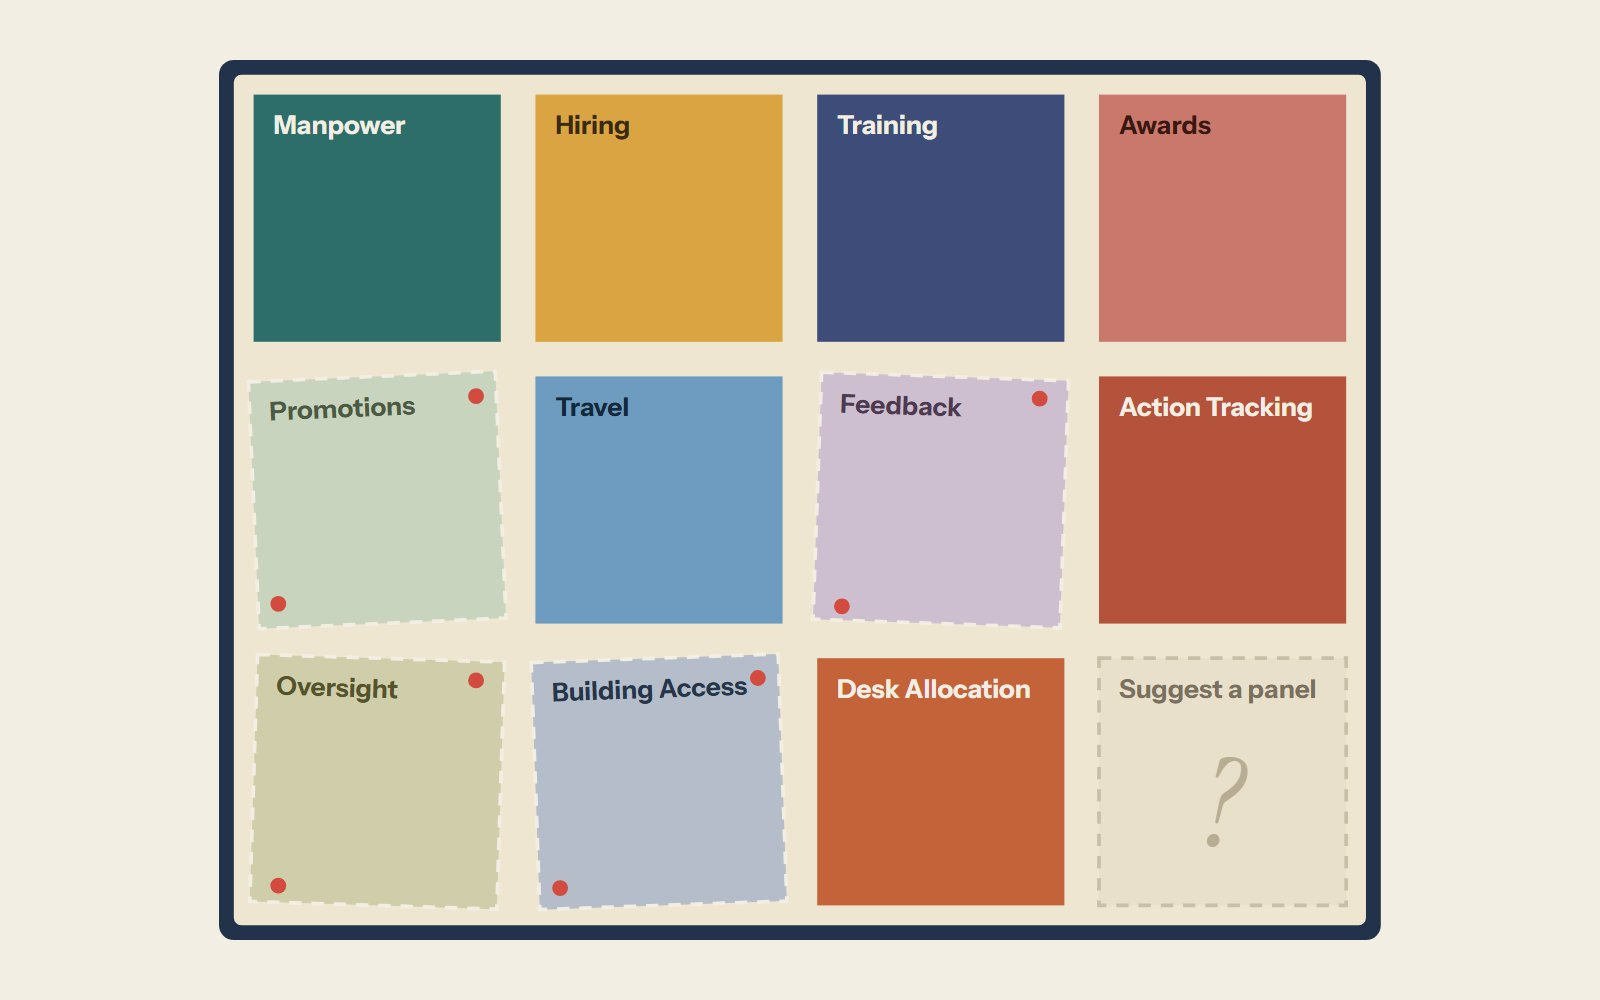
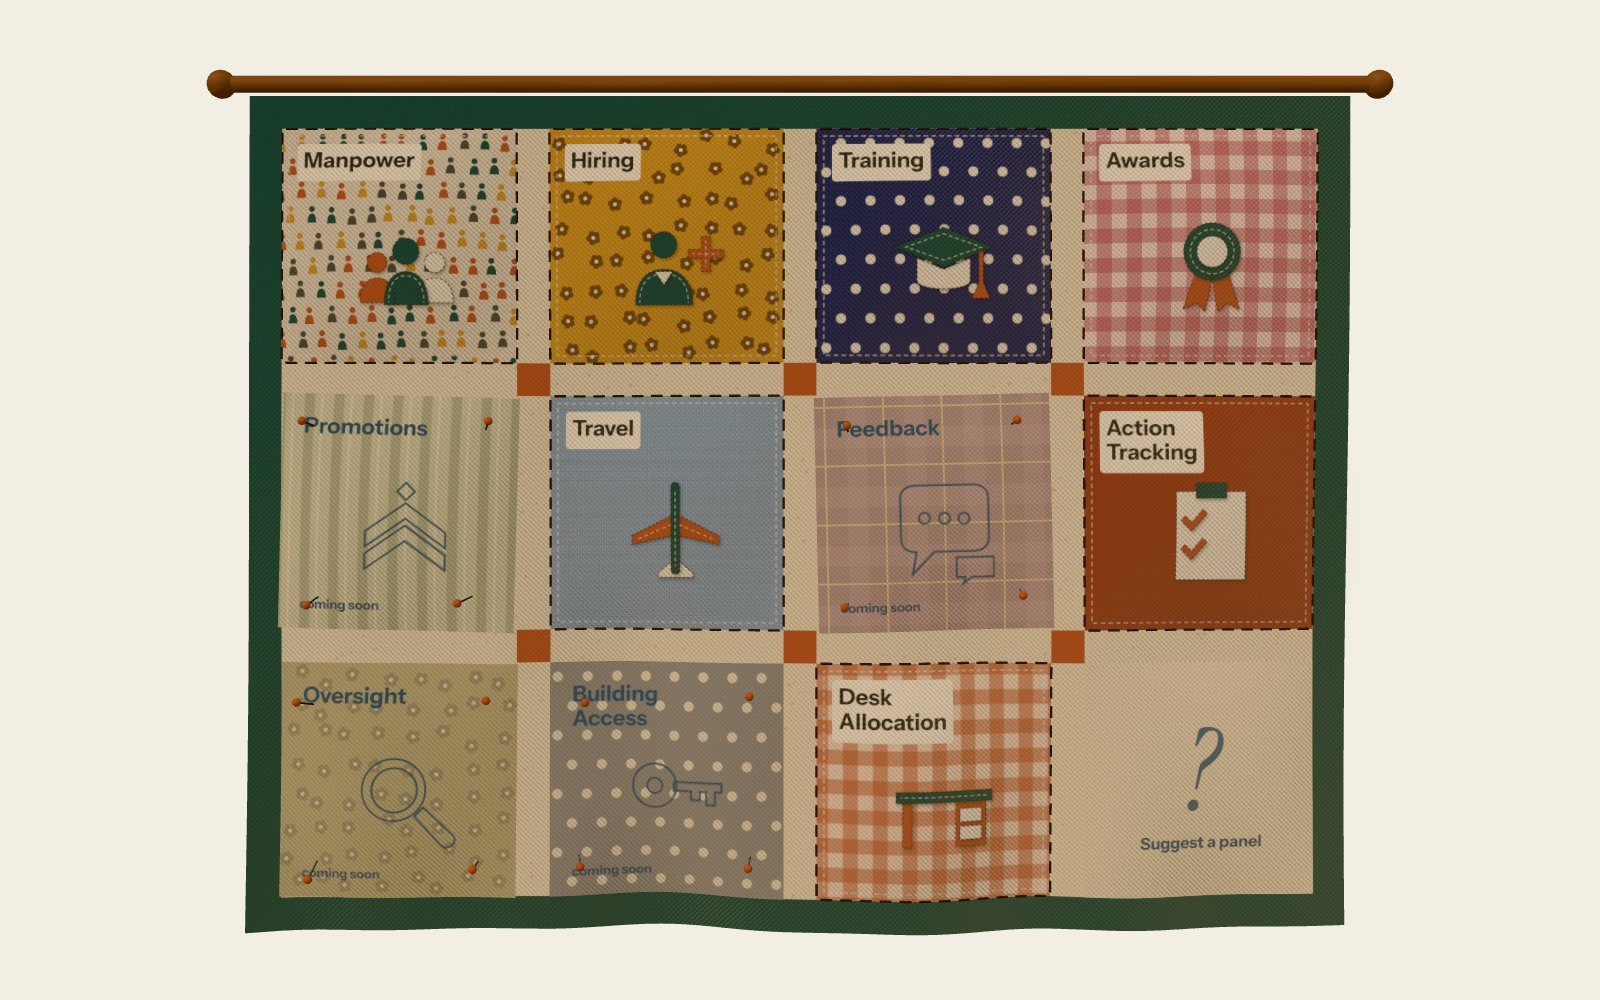
Capture the still from the live rest-pose render
capture_still.py waits for live, the settled quilt, the faded still and
2.5 s past the first live frame with frames advancing, steps the JPEG
quality down until it fits 250 KB, and writes nothing unless every
target succeeded. The committed still is its capture at quality 85
(238,449 B), replacing #7's sketch.

Refs #11

diff --git a/weave/tools/capture_still.py b/weave/tools/capture_still.py
@@ -89,8 +89,69 @@ def fit(shoot, qualities=QUALITIES, limit=LIMIT):
     raise CaptureError(f"{len(data):,} B at quality {quality} is over {limit:,} B")
 
 
+# Synchronous predicates (a returned Promise reads as truthy; Issue-9). FADED: the still has faded out under the live
+# scene, or the stage has left live (the next check then says why).
+FADED = """() => { const el = document.querySelector('[data-hero]');
+  if (el.dataset.heroState !== 'live') return true;
+  return el.classList.contains('is-live') && getComputedStyle(el.querySelector('.hero-still')).opacity === '0'; }"""
+SINCE_LIVE = """() => { const m = performance.getEntriesByName('weave:first-live-frame')[0];
+  return m ? performance.now() - m.startTime : null; }"""
+AFTER_LIVE = """(ms) => { const m = performance.getEntriesByName('weave:first-live-frame')[0];
+  return !!m && performance.now() - m.startTime >= ms; }"""
+STAGE_RECT = "el => { const r = el.getBoundingClientRect(); return [r.x, r.y, r.width, r.height]; }"
+STILL_OPACITY = "el => getComputedStyle(el.querySelector('.hero-still')).opacity"
+
+
+def hero(page):
+    return page.eval_on_selector("[data-hero]", verify.HERO)
+
+
+def wait(page, what, predicate, timeout, arg=None):
+    """wait_for_function, with a timeout read as a fallback when the stage has left live."""
+    try:
+        page.wait_for_function(predicate, arg=arg, timeout=timeout)
+    except PlaywrightError as exc:
+        state, reason = hero(page)
+        if state != "live":
+            raise CaptureError(f"the scene fell back to the still ({reason})") from exc
+        raise CaptureError(f"timed out waiting for {what}") from exc
+
+
 def capture(browser, base, name, queries):
-    raise NotImplementedError
+    """(bytes, quality, info) of target `name`'s JPEG, taken in memory; CaptureError when it must write nothing."""
+    path, _ = TARGETS[name]
+    context = open_context(browser)
+    try:
+        page = context.new_page()
+        page.goto(target_url(base, path, queries))
+        wait(page, "the hero to settle", verify.SETTLED, 30000)
+        state, reason = hero(page)
+        if state != "live":
+            raise CaptureError(f"the scene fell back to the still ({reason})")
+        wait(page, "the settled quilt", verify.QUILT_SETTLED, verify.SETTLED_TIMEOUT_MS)
+        before = page.eval_on_selector("[data-hero]", verify.FRAMES)
+        wait(page, "the still to fade out", FADED, 5000)
+        wait(page, "the watchdog's window", AFTER_LIVE, verify.SETTLE_AFTER_LIVE_MS + 10000,
+             arg=verify.SETTLE_AFTER_LIVE_MS)
+        # The state first, so a teardown during the wait reports its reason, not a stopped loop.
+        state, reason = hero(page)
+        if state != "live":
+            raise CaptureError(f"the scene fell back to the still ({reason})")
+        advanced = page.eval_on_selector("[data-hero]", verify.FRAMES) - before
+        if advanced <= 0:
+            raise CaptureError("the frame loop stopped before the watchdog ruled")
+        x, y, w, h = page.eval_on_selector("[data-hero]", STAGE_RECT)
+        if [x, y, w, h] != [0, 0, VIEWPORT["width"], VIEWPORT["height"]]:
+            raise CaptureError(f"the stage is {w:g} x {h:g}, not 1600 x 1000")
+        info = {"state": state, "reason": reason, "after_live_ms": round(page.evaluate(SINCE_LIVE), 1),
+                "frames_advanced": advanced, "still_opacity": page.eval_on_selector("[data-hero]", STILL_OPACITY)}
+        quality, data = fit(lambda q: page.screenshot(type="jpeg", quality=q))
+        state, reason = hero(page)
+        if state != "live":
+            raise CaptureError(f"the scene fell back to the still ({reason})")
+        return data, quality, info
+    finally:
+        context.close()
 
 
 def main(argv=None):
@@ -101,7 +162,35 @@ def main(argv=None):
             print(f"capture_still.py: no '{name}' target is registered yet; registered: {', '.join(TARGETS)}",
                   file=sys.stderr)
             return 2
-    raise NotImplementedError
+    out = Path(args.out) if args.out else DEFAULT_OUT
+    # Every target is captured in memory first; nothing is written unless all of them succeeded.
+    shots = []
+    server, base = verify.serve.start(PUBLIC)
+    try:
+        with sync_playwright() as pw:
+            browser = pw.chromium.launch(args=verify.GPU_ARGS)
+            try:
+                for name in names:
+                    try:
+                        data, quality, _ = capture(browser, base, name, args.query)
+                    except CaptureError as exc:
+                        print(f"capture_still.py: {name}: {exc}; nothing written", file=sys.stderr)
+                        return 1
+                    shots.append((name, data, quality))
+            finally:
+                browser.close()
+    finally:
+        server.shutdown()
+        server.server_close()
+    out.mkdir(parents=True, exist_ok=True)
+    for name, data, quality in shots:
+        path = out / TARGETS[name][1]
+        tmp = path.with_name(path.name + ".tmp")
+        tmp.write_bytes(data)
+        os.replace(tmp, path)
+        print(f"capture_still.py: wrote {path} ({VIEWPORT['width']} x {VIEWPORT['height']}, JPEG quality {quality},"
+              f" {len(data):,} B)")
+    return 0
 
 
 if __name__ == "__main__":

diff --git a/weave/tests/test_capture_still.py b/weave/tests/test_capture_still.py
@@ -152,3 +152,47 @@ def test_which_help_names_the_missing_target(tmp_path):
     assert "no 'help' target is registered yet" in result.stderr and "registered: home" in result.stderr, result.stderr
     assert not out.exists()
     assert elapsed < 10, elapsed
+
+
+# --- The capture (Task 2): headless Chromium on the suite's server; tests always pass --out or call capture(). ---
+
+
+def tree_guard():
+    """What a capture must never change: git's view of weave/public, and the committed still's bytes."""
+    status = subprocess.run(["git", "status", "--porcelain", "--", "public"], cwd=WEAVE, capture_output=True,
+                            text=True, check=True).stdout
+    return status, hashlib.sha256(STILL.read_bytes()).hexdigest()
+
+
+def test_capture_waits_for_live_fade_and_watchdog(capture, browser, base_url):
+    data, quality, info = capture.capture(browser, f"{base_url}/public", "home", [])
+    assert info["state"] == "live" and info["still_opacity"] == "0", info
+    assert info["after_live_ms"] >= 2500 and info["frames_advanced"] > 0, info
+    assert helpers.jpeg_size(data) == (1600, 1000)
+    assert len(data) <= 250_000 and quality in capture.QUALITIES, (len(data), quality)
+
+
+def test_capture_writes_only_under_out(tmp_path):
+    before = tree_guard()
+    out = tmp_path / "o"
+    elsewhere = tmp_path / "elsewhere"
+    elsewhere.mkdir()
+    result = run_script("--out", str(out), cwd=elsewhere)
+    assert result.returncode == 0, (result.returncode, result.stderr)
+    assert re.fullmatch(r"capture_still\.py: wrote .*weave-still\.jpg \(1600 x 1000, JPEG quality \d+, [\d,]+ B\)",
+                        result.stdout.strip()), result.stdout
+    assert sorted(p.name for p in out.iterdir()) == ["weave-still.jpg"]
+    data = (out / "weave-still.jpg").read_bytes()
+    assert helpers.jpeg_size(data) == (1600, 1000) and len(data) <= 250_000, len(data)
+    assert tree_guard() == before
+
+
+def test_forced_fallback_writes_nothing(tmp_path):
+    """The positive control is test_capture_writes_only_under_out: the same harness, rc 0, one file."""
+    before = tree_guard()
+    out = tmp_path / "o"
+    result = run_script("--query", "watchdogLimitMs=0", "--out", str(out), cwd=tmp_path)
+    assert result.returncode == 1, (result.returncode, result.stderr)
+    assert "home: the scene fell back to the still (too-slow); nothing written" in result.stderr, result.stderr
+    assert not out.exists() or list(out.iterdir()) == []
+    assert tree_guard() == before

diff --git a/weave/tests/test_page.py b/weave/tests/test_page.py
@@ -1,4 +1,5 @@
 """The WEAVE page's static parts, its accessibility basics, its still and its stage."""
+import hashlib
 import json
 import os
 import posixpath
@@ -7,7 +8,7 @@ from pathlib import Path
 
 import pytest
 
-from helpers import open_page
+from helpers import jpeg_size, open_page
 
 PUBLIC = Path(__file__).resolve().parents[1] / "public"
 SOURCE = "https://github.com/mtibbits/weave-prototypes"
@@ -249,3 +250,14 @@ def test_no_module_writes_html():
     assert dev_pages, "no dev page to scan"
     found = {p.name: html_sinks(p.read_text(encoding="utf-8")) for p in modules + dev_pages}
     assert all(lines == [] for lines in found.values()), found
+
+
+# The hand-drawn sketch #7 committed, before #11 replaced it with a capture of the live render.
[1 lines of base64/hex data omitted]
+
+
+def test_committed_still_is_a_capture():
+    """#11: the still is no longer the sketch; byte-level provenance is preship's compare with a fresh capture."""
+    data = (PUBLIC / "assets" / "weave-still.jpg").read_bytes()
+    assert hashlib.sha256(data).hexdigest() != SKETCH_SHA256
+    assert jpeg_size(data) == (1600, 1000)
